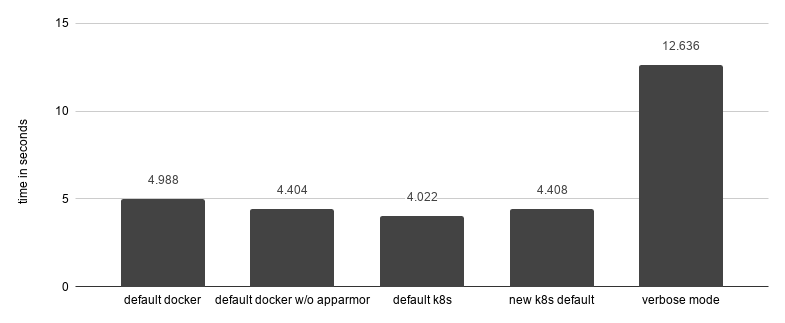
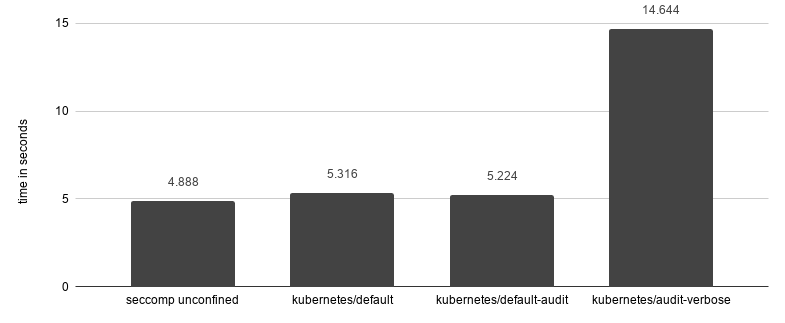
Improve performance section based on feedback

diff --git a/keps/sig-node/20190925-enable-seccomp-by-default.md b/keps/sig-node/20190925-enable-seccomp-by-default.md
@@ -155,15 +155,18 @@ To support audit mode, some validation will be required ensuring that the downst
 
 #### Performance Considerations
 
-Enabling Linux Security Modules, such as seccomp or apparmor, may come with a performance overhead. To assess that impact a performance test was made comparing a given application running against different seccomp configurations. 
-
-Docker by default has both apparmor and seccomp enabled, which is the security community's recommendation. In contrast, Kubernetes have both disabled by default. To make it clearer the real impact of enabling this feature in Kubernetes, the comparison shows all those different scenarios. 
+Enabling security features may come with a performance overhead, to assess such impact for landing this proposal, a given application was executed against different seccomp configurations, and the results are per below. 
 
 ![](seccomp-perf-chart.png)
 
-Using the proposed "new k8s default" (a.k.a. `kubernetes/default-audit`), performed 10% slower than running as "default k8s" (a.k.a. `unconfined`). However, it performed marginally slower than "default docker w/o apparmor" (a.k.a. `runtime/default` or `docker/default`), which is the default seccomp profile used by docker. 
+_For the purposes of this test, the time calculated was just for the [application](https://gist.github.com/pjbgf/8474083a612d0566aa5328747341bddb) inside the container to execute 4 million lstat operations. Tests executed using: Docker Engine Community v19.03.2, containerd v1.2.6 and runc v1.0.0-rc9._
 
-_For the purposes of this test, the time calculated was just for the application inside the container to execute 4 million lstat operations. Tests executed using: Docker Engine Community v19.03.2, containerd v1.2.6 and runc v1.0.0-rc8._
+By enabling seccomp there was an increase of around 10% for the time required for the task to be completed. Both profiles `kubernetes/default` and `kubernetes/default-audit`, performed quite similarly, considering a 200ms std deviation. 
+
+Note that the comparison used an [application](https://gist.github.com/pjbgf/8474083a612d0566aa5328747341bddb) that consumes syscalls that are white-listed in `kubernetes/default`, otherwise it would not be a fair comparison, as the enforceable profile would block the operation.
+
+Considering that the built-in seccomp profiles whitelist around 80% of the syscalls supported by seccomp, which include the most commonly used ones, the impact between using `kubernetes/default` and `kubernetes/default-audit` in line of business applications should be negligible. For applications that heavily depend on the other 20% of syscalls, the impact can be as big as the one showed for `kubernetes/audit-verbose`, namely up to 3 times slower.
+
 
 #### Log spamming
 
